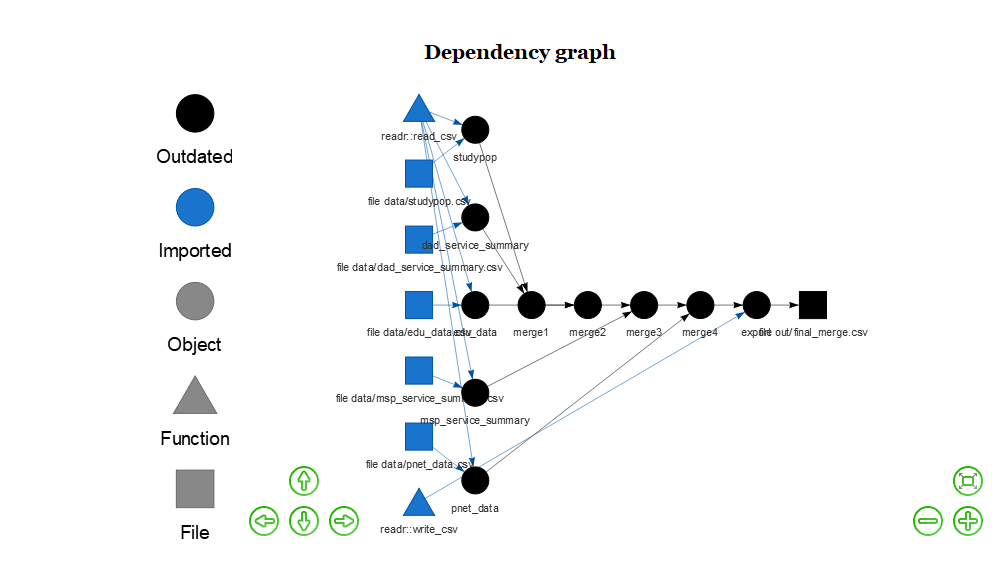
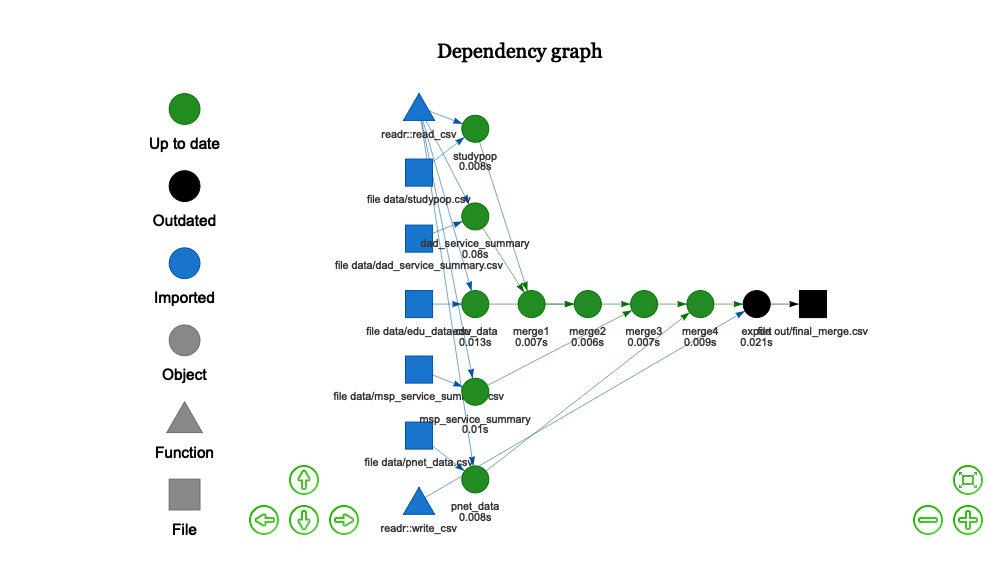
render updated README

diff --git a/README.md b/README.md
@@ -1,10 +1,6 @@
 
 <!-- README.md is generated from README.Rmd. Please edit that file -->
 
-This a repo that is a home for developing a lesson and talk around drake
-based
-workflows.
-
 # drake-example
 
 <!-- badges: start -->
@@ -13,16 +9,18 @@ workflows.
 <!-- badges: end -->
 
 The goal of drake-example is to provide a repo for developing a lesson
-or lecture surrounding drake based workflows.
+or lecture surrounding drake-based R workflows.
 
-The simple drake workflow outlined at the moment first involves
-generating some data:
+A simple drake workflow outlined (WIP):
+
+1)  First — generate some data:
+
+<!-- end list -->
 
 ``` r
 library(here)
-#> here() starts at C:/_dev/GitHub_repos/drake-example
+#> here() starts at /Users/shazlitt/dev/drake-example
 source(here("generate_cohort_example.R"))
-#> Warning: package 'dplyr' was built under R version 3.6.1
 #> 
 #> Attaching package: 'dplyr'
 #> The following objects are masked from 'package:stats':
@@ -31,37 +29,37 @@ source(here("generate_cohort_example.R"))
 #> The following objects are masked from 'package:base':
 #> 
 #>     intersect, setdiff, setequal, union
-#> Warning: package 'readr' was built under R version 3.6.1
 ```
 
-Then we need to source our respective `.R` files which define the drake
-workflow:
+2)  Source the respective `.R` files which define the drake workflow:
+
+<!-- end list -->
 
 ``` r
 source(here("R/packages.R"))
-#> Warning: package 'drake' was built under R version 3.6.1
 source(here("R/functions.R"))       
 source(here("R/plan.R"))    
 ```
 
-Then lastly we need to run the plan and visualize our progress. This
-typically would all be contained within a `make.R` file:
+3)  Run the plan & visualize progress:
+
+<!-- end list -->
 
 ``` r
 plan
 #> # A tibble: 10 x 2
 #>    target             command                                              
 #>    <chr>              <expr>                                               
-#>  1 studypop           readr::read_csv(file_in("data/studypop.csv"))       ~
-#>  2 dad_service_summa~ readr::read_csv(file_in("data/dad_service_summary.cs~
-#>  3 edu_data           readr::read_csv(file_in("data/edu_data.csv"))       ~
-#>  4 msp_service_summa~ readr::read_csv(file_in("data/msp_service_summary.cs~
-#>  5 pnet_data          readr::read_csv(file_in("data/pnet_data.csv"))      ~
-#>  6 merge1             studypop %>% left_join(dad_service_summary)         ~
-#>  7 merge2             merge1 %>% left_join(edu_data)                      ~
-#>  8 merge3             merge2 %>% left_join(msp_service_summary)           ~
-#>  9 merge4             merge3 %>% left_join(pnet_data)                     ~
-#> 10 export             readr::write_csv(merge4, file_out("out/final_merge.c~
+#>  1 studypop           readr::read_csv(file_in("data/studypop.csv"))       …
+#>  2 dad_service_summa… readr::read_csv(file_in("data/dad_service_summary.cs…
+#>  3 edu_data           readr::read_csv(file_in("data/edu_data.csv"))       …
+#>  4 msp_service_summa… readr::read_csv(file_in("data/msp_service_summary.cs…
+#>  5 pnet_data          readr::read_csv(file_in("data/pnet_data.csv"))      …
+#>  6 merge1             studypop %>% left_join(dad_service_summary)         …
+#>  7 merge2             merge1 %>% left_join(edu_data)                      …
+#>  8 merge3             merge2 %>% left_join(msp_service_summary)           …
+#>  9 merge4             merge3 %>% left_join(pnet_data)                     …
+#> 10 export             readr::write_csv(merge4, file_out("out/final_merge.c…
 
 
 config <- drake_config(plan)
@@ -74,60 +72,11 @@ vis_drake_graph(config)
 
 
 make(plan)
-#> target dad_service_summary
-#> Target dad_service_summary messages:
-#>   Parsed with column specification:
-#> cols(
-#>   name = col_character(),
-#>   homeworld = col_character(),
-#>   species = col_character()
-#> )
-#> target studypop
-#> Target studypop messages:
-#>   Parsed with column specification:
-#> cols(
-#>   name = col_character(),
-#>   gender = col_character()
-#> )
-#> target edu_data
-#> Target edu_data messages:
-#>   Parsed with column specification:
-#> cols(
-#>   name = col_character(),
-#>   birth_year = col_double()
-#> )
-#> target msp_service_summary
-#> Target msp_service_summary messages:
-#>   Parsed with column specification:
-#> cols(
-#>   name = col_character(),
-#>   hair_color = col_character(),
-#>   skin_color = col_character(),
-#>   eye_color = col_character()
-#> )
-#> target pnet_data
-#> Target pnet_data messages:
-#>   Parsed with column specification:
-#> cols(
-#>   name = col_character(),
-#>   height = col_double(),
-#>   mass = col_double()
-#> )
-#> target merge1
-#> Target merge1 messages:
-#>   Joining, by = "name"
-#> target merge2
-#> Target merge2 messages:
-#>   Joining, by = "name"
-#> target merge3
-#> Target merge3 messages:
-#>   Joining, by = "name"
-#> target merge4
-#> Target merge4 messages:
-#>   Joining, by = "name"
 #> target export
 
 vis_drake_graph(config)
 ```
 
 ![](README_files/figure-gfm/unnamed-chunk-3-2.png)<!-- -->
+
+All 3 steps would typically be contained within a `make.R` file.
